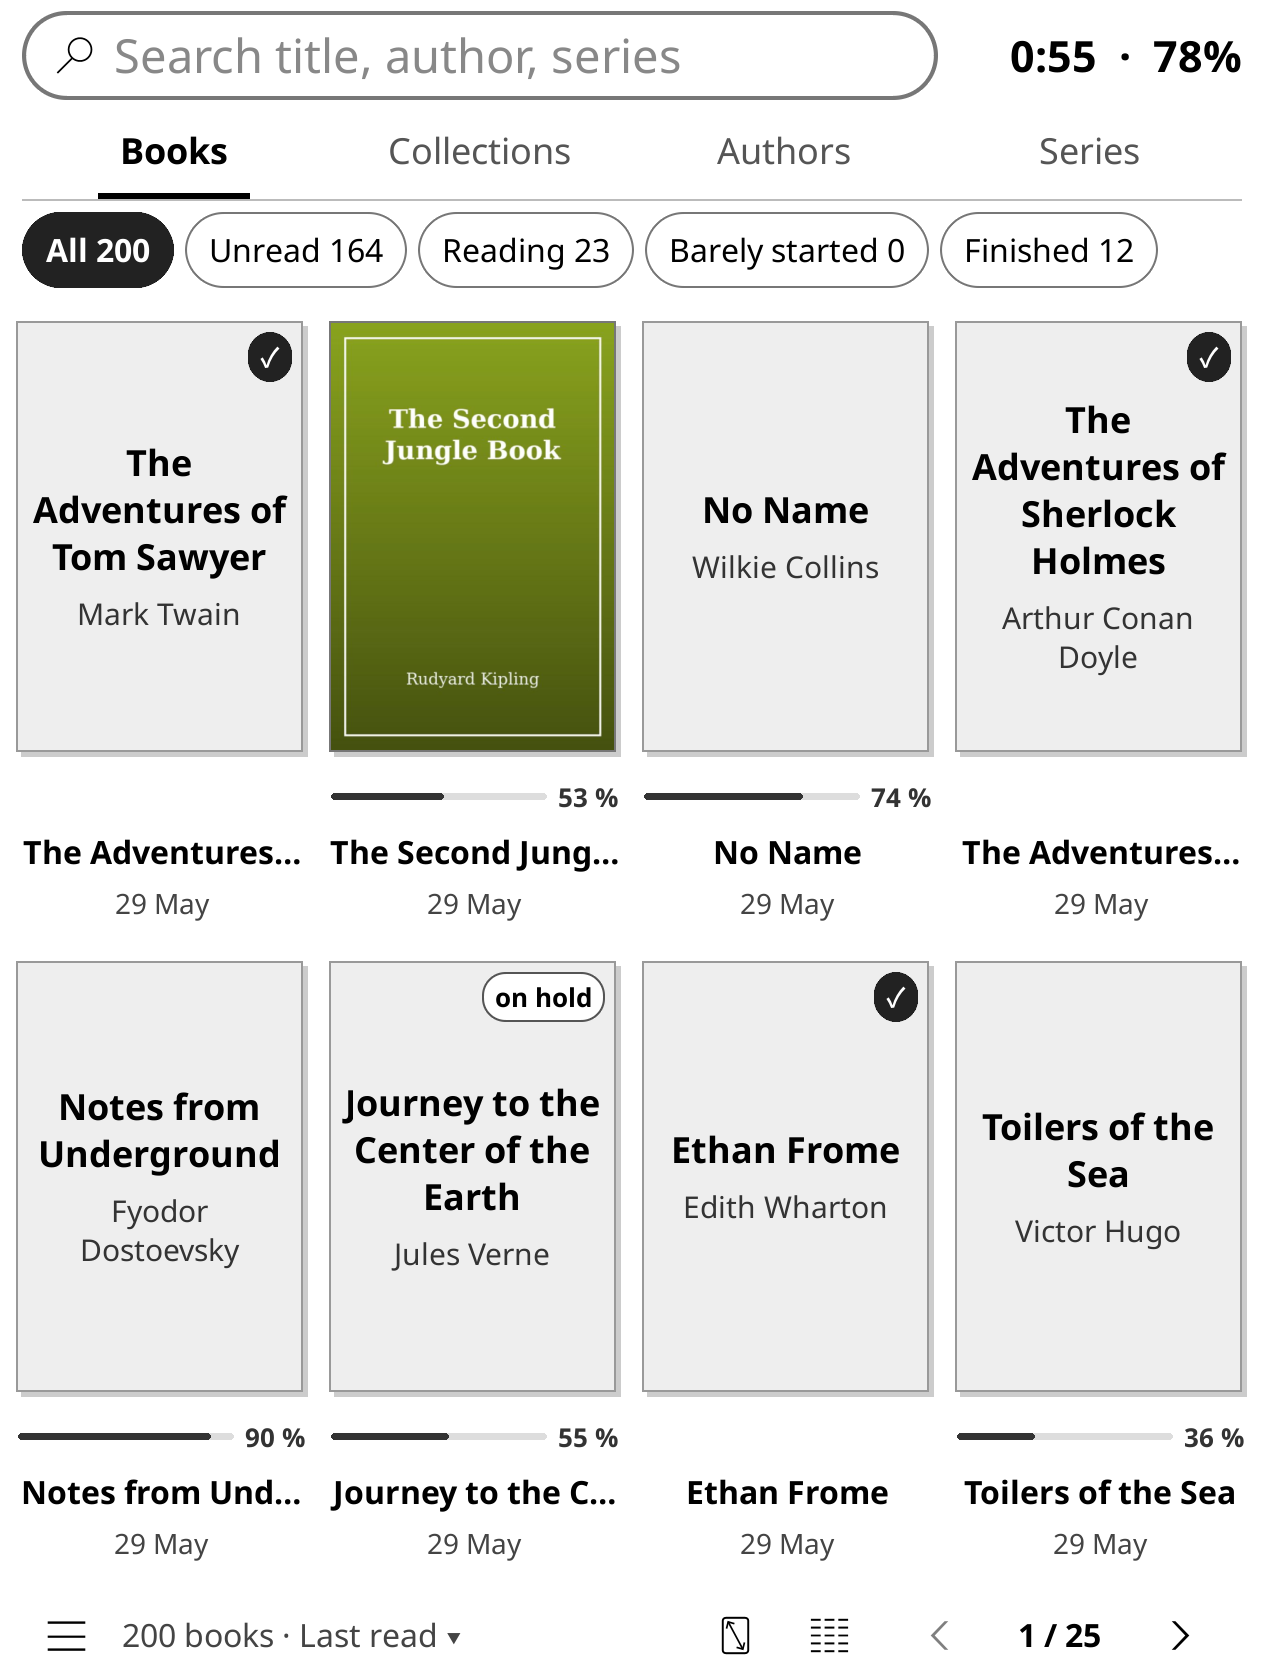
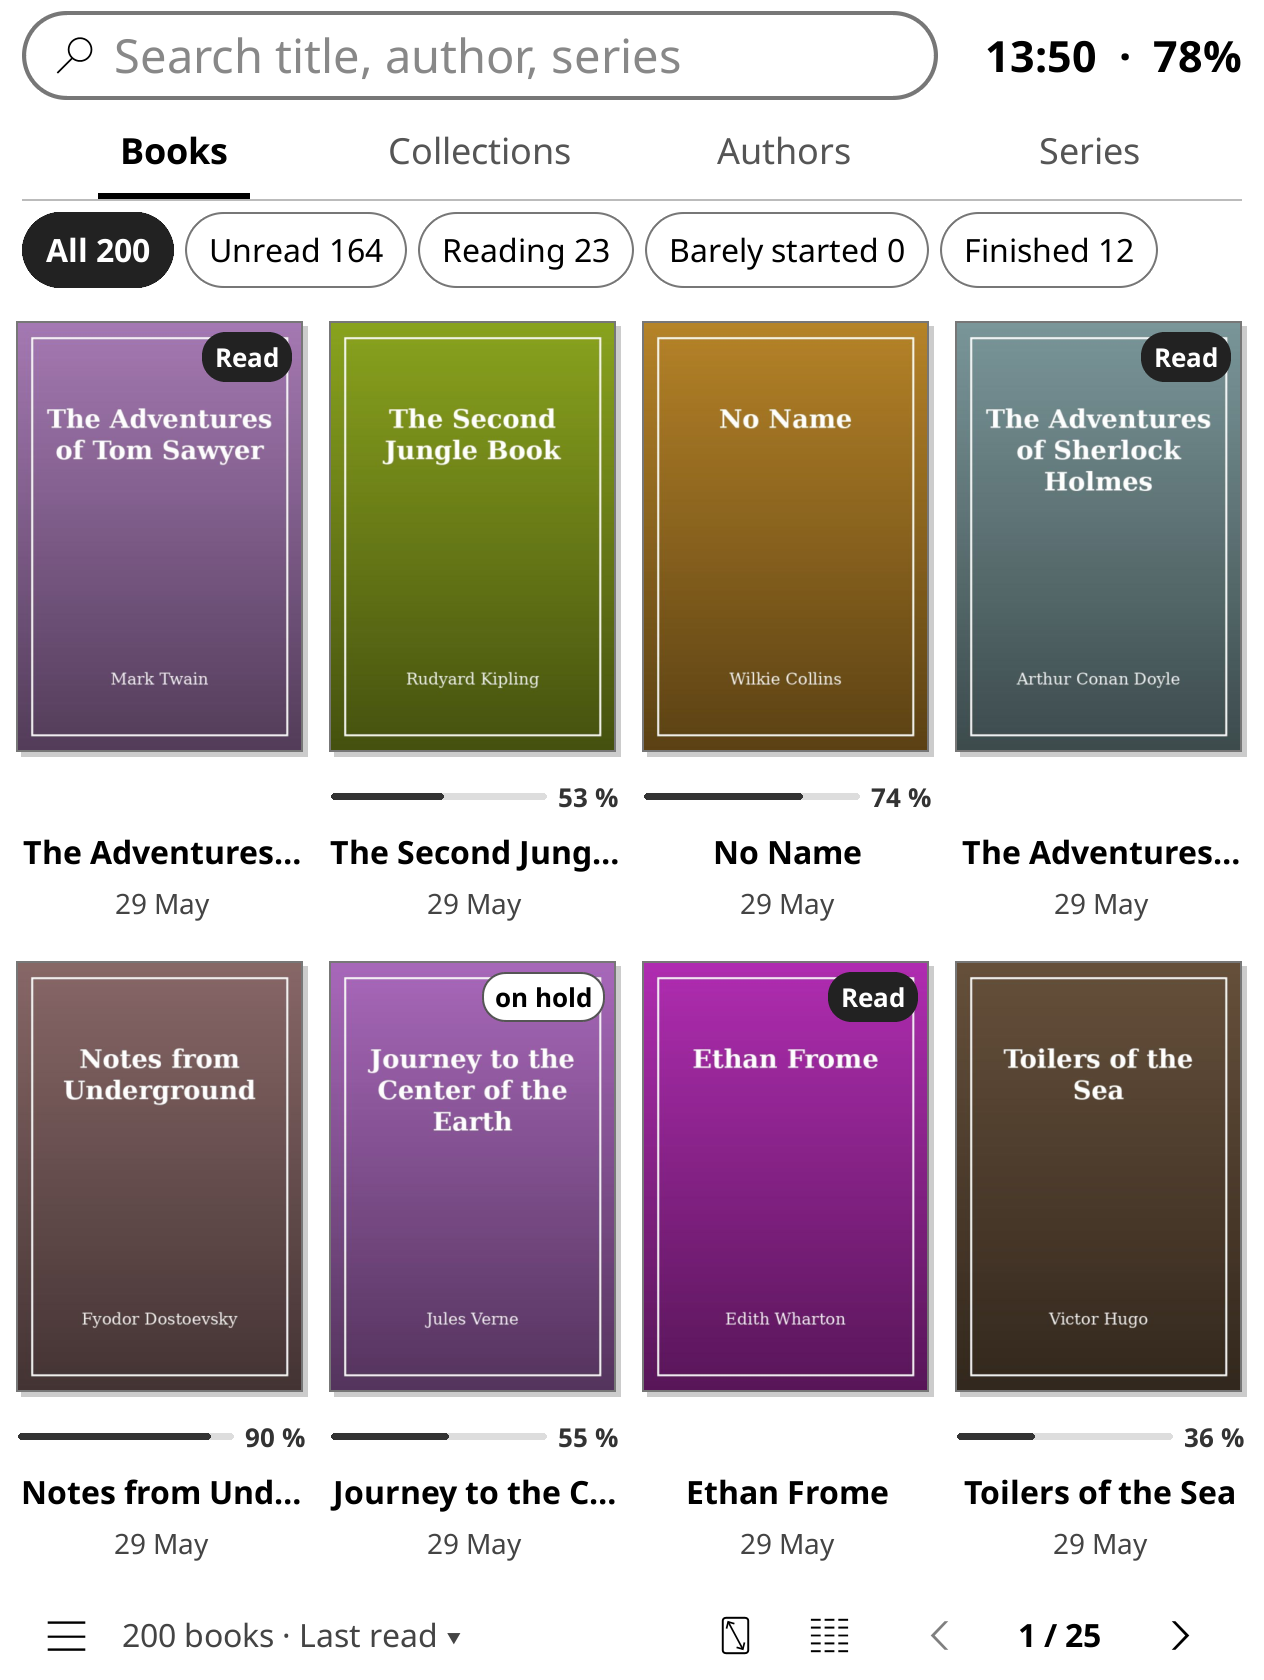
docs: bring the README up to date for v0.7.0
Point the install steps at the published v0.7.0 zip, document badges, time left, Want to Read, Cover only and the Gestures menu, and replace the emulator shots.

diff --git a/README.md b/README.md
@@ -57,7 +57,7 @@ The home-screen layout follows design ideas from [@drkhn1234](https://gitlab.com
 
 | Sort from the footer | The ☰ menu | Controls panel |
 |---|---|---|
-| ![Sort picker opened from the footer label](docs/screenshots/07-sort-picker.png) | ![The ☰ menu opening upward from the bottom left: sort, view, Widgets, Barely started, A–Z strip, Show clock, Show battery and Use KOReader's keyboard](docs/screenshots/v050-menu.png) | ![Controls panel with brightness and warmth sliders, and Light, Night mode, Refresh, Wi-Fi, Rotate, Cover sleep and Exit](docs/screenshots/09-controls-panel.png) |
+| ![Sort picker opened from the footer label](docs/screenshots/07-sort-picker.png) | ![The ☰ menu opening upward from the bottom left: sort, view including Cover only, Widgets, Gestures, A–Z strip, clock, battery, and Close Library](docs/screenshots/v050-menu.png) | ![Controls panel with brightness and warmth sliders, and Light, Night mode, Refresh, Wi-Fi, Rotate, Cover sleep and Exit](docs/screenshots/09-controls-panel.png) |
 
 | Genres | Inside a genre | Go to page |
 |---|---|---|
@@ -65,7 +65,7 @@ The home-screen layout follows design ideas from [@drkhn1234](https://gitlab.com
 
 | Book details | A book with no description | Library in the reader menu |
 |---|---|---|
-| ![Book details for Wuthering Heights, with the cover, Open, a Public domain chip and a description](docs/screenshots/13-details-card.png) | ![Book details for a finished book with no description](docs/screenshots/14-details-card-none.png) | ![KOReader's reader menu with Library and Book details at the top, and the Library tab icon](docs/screenshots/12-reader-menu-library.png) |
+| ![Book details for Wuthering Heights: last read, file size, path, description, and Add to Want to Read](docs/screenshots/13-details-card.png) | ![Pride and Prejudice, finished, with no description. Mark unread sits with More and Close](docs/screenshots/14-details-card-none.png) | ![KOReader's reader menu with Library and Book details at the top, and the Library tab icon](docs/screenshots/12-reader-menu-library.png) |
 
 | Clock and battery off |
 |---|
@@ -75,7 +75,13 @@ The home-screen layout follows design ideas from [@drkhn1234](https://gitlab.com
 |---|---|---|
 | ![Filter chips with their full labels. Finished is cut off at the right edge](docs/screenshots/v050-filters.png) | ![KOReader's file browser, filing-cabinet tab, with Start with set to library](docs/screenshots/v050-start-with.png) | ![The frontlight level, 31, while a drag on the left edge is still down](docs/screenshots/v050-brightness.png) |
 
-The shots on this page show the home screen (widgets and the A–Z strip). They were taken in the KOReader emulator with the dummy library. v0.7.0 adds a Gestures menu on the Library home and forwards the file browser's top swipe and two-finger gestures. v0.6.0 adds Read / New badges, time left, Want to Read, and Cover only. Finished keeps its full label and is cut off at the screen edge when the row is wider than the screen; swipe the chips to bring it across. The level in the brightness shot is drawn by the plugin while the finger is down, and it is cleared when the finger lifts.
+| Cover only | Badges and time left | Gestures |
+|---|---|---|
+| ![Cover only: New badges and a progress row with time left, no title under the cover](docs/screenshots/v070-cover-only.png) | ![List view with New, Read, and time left under the percent](docs/screenshots/v070-badges.png) | ![Gestures menu. Each row is still Same as file browser](docs/screenshots/v070-gestures.png) |
+
+![Choices for swipe down from the top. Same as file browser is selected](docs/screenshots/v070-gesture-choices.png)
+
+The shots on this page were taken in the KOReader emulator (1264×1680) with the dummy library. v0.7.0 adds the Gestures menu: a swipe down from the top opens KOReader's menu, and a two-finger swipe follows the file browser, until you pick another action. v0.6.0 adds Read / New badges, time left, Want to Read, and Cover only. Finished keeps its full label and is cut off at the screen edge when the row is wider than the screen; swipe the chips to bring it across. The level in the brightness shot is drawn by the plugin while the finger is down, and it is cleared when the finger lifts.
 
 ## Features
 
@@ -86,7 +92,7 @@ The shots on this page show the home screen (widgets and the A–Z strip). They 
 - **Sort** by Author, Title, Date added, Last read or Series. Tap the label in the footer to change it, or use the ☰ menu.
 - **Views**: Small, Medium or Large covers, List, Compact, Compact · 2 columns, and Cover only. Cover only keeps the progress row and the badges, and drops the title and author so more covers fit. The view, sort and filter are remembered for each tab and each author, series or collection you open (**Reset default layout** in the ☰ menu forgets them).
 - **Read / New badges.** **New** is only for a book that has never been opened. A book you opened and left on the cover stays unmarked. **Read** means KOReader's doc settings say the book is finished. On hold is unchanged.
-- **Time left** on in-progress books, next to the percent (*42 % · 2h*). It uses that book's own reading speed. If KOReader has no speed for the book, the duration is hidden; nothing is filled in with a default pace.
+- **Time left** on in-progress books. A cover and a compact row put it next to the percent (*42 % · 2h 15m*). A list row puts it under the percent. It uses that book's own reading speed. If KOReader has no speed for the book, the duration is hidden; nothing is filled in with a default pace.
 - **Want to Read.** From the details card or the book's More menu, add or remove the book from a KOReader collection named Want to Read. That collection then shows on the Collections tab like any other.
 - **Dates**: sorted by Last read or Date added, each book shows its date (*3h ago*, *Yesterday*, *12 Oct*). Under Last read, books you've never opened follow in author order.
 - **Widgets**: the area above the books. The default is still Continue reading, a row of the books you are in the middle of. Long-press the title to switch the slot to Favorites, Recently added (newest file first), a series, a collection, or a folder, or to clear it. Two widgets can sit side by side; tap a title to expand one and turn the other into a tab. A widget remembers its page when you open a book and come back. Swipe up on the grid to hide the band, and swipe down to restore it.
@@ -101,16 +107,16 @@ The shots on this page show the home screen (widgets and the A–Z strip). They 
 - **Bigger page buttons**: the footer arrows and the page number are about 10 mm wide to hit (at least 120 px on a 300 dpi Kindle), without making the footer taller.
 - **Cover sleep screen**: one toggle to show the cover of the book you read last on the sleep screen. Turning it off puts back the sleep screen you had.
 - **Controls panel**: swipe down from the top right (the right half of the top of the screen; a slightly diagonal pull is fine) for Brightness and Warmth sliders and buttons for Light, Night mode, Refresh (clears e-ink ghosting), Wi-Fi, Rotate, Cover sleep and Exit (asks first, then quits KOReader). You can also tap the clock or battery beside the search bar, or choose **Controls** in the ☰ menu. Anything your device doesn't have is left out.
-- **Top tap while reading** (☰ → Library → **Top tap opens**): **Library GUI bar** (the default) opens a small menu: Library, Contents, Go to page, Search, Font & size, Light, Bookmark, Book details, Exit, and **More…** for KOReader's full reader menu. **KOReader menu** opens KOReader's own reader menu with that same tap. A swipe down from the top opens KOReader's menu with either choice. The Library screen stays as it is, and the search keyboard stays on **Use KOReader's keyboard**.
+- **Top tap while reading** (☰ → Library → **Top tap opens**): **Library GUI bar** (the default) opens a small menu: Library, Contents, Go to page, Search, Font & size, Readability, Light, Bookmark, Book details, Exit, and **More…** for KOReader's full reader menu. **KOReader menu** opens KOReader's own reader menu with that same tap. A swipe down from the top of a page opens KOReader's menu with either choice. The search keyboard stays on **Use KOReader's keyboard**.
 - **Start with**: KOReader's own Start with setting (file browser menu) includes library. Choose it to open the Library when KOReader starts and to come back to it after closing a book. A vertical drag on the left edge of the Library sets brightness directly, at the same pace as the Controls slider.
 - **Covers without other plugins.** Library GUI extracts covers itself in the background. If Project: Title or Cover browser is enabled, it reuses their cover cache.
-- **Gestures**: the Library home screen has its own gesture menu (☰ on the Library, or ☰ → Library → **Gestures**). Each gesture — swipe down from the top, two-finger swipes, the screen edges, corner taps and holds, and multiswipe, pinch and spread — can stay **Same as file browser** (the default, so nothing changes), do something else (open KOReader's menu, rotate, brightness, warmth, open the current book, the Library menu, Controls, or turn the page), or do **Nothing**. Same as file browser is defined in KOReader's own Gesture manager for the file browser; the menu has a shortcut to it. A one-finger tap or swipe that starts on the A–Z strip still jumps to a letter. Open Library, Search library, Resume last book, Rescan library, and Next / Previous in series can also be assigned under *Taps and gestures*.
+- **Gestures** (☰ on the Library, or ☰ → Library → **Gestures**). On the Library home, a swipe down from the top opens KOReader's menu, and a two-finger swipe does whatever you set for the file browser (often rotate). That is **Same as file browser**, the default for every gesture. You can instead pick **Nothing**, or an action of your own: open KOReader's menu, rotate, brightness, warmth, open the current book, the Library menu, Controls, or turn a page. The list is the top swipe, two-finger swipes (right, left, up, down, diagonal), the screen edges, corner taps and holds, and multiswipe, pinch and spread. **KOReader gesture manager** in that menu opens the file-browser profile, which is what Same as file browser follows. A one-finger tap or swipe that starts on the A–Z strip still jumps to a letter. Open Library, Search library, Resume last book, Rescan library, and Next / Previous in series can also be assigned under *Taps and gestures*.
 
 ## Install
 
 The current release is **[v0.7.0](https://gitlab.com/antonyvo/koreader-library-gui/-/releases/v0.7.0)**. Download **[library.koplugin-v0.7.0.zip](https://gitlab.com/antonyvo/koreader-library-gui/-/releases/v0.7.0/downloads/library.koplugin-v0.7.0.zip)** and unzip it. You get a folder called `library.koplugin`.
 
[2 lines of base64/hex data omitted]
 
 1. Copy the `library.koplugin` folder into `koreader/plugins/` on your device, so you end up with `koreader/plugins/library.koplugin/main.lua`.
    - On a Kindle that is `/mnt/us/koreader/plugins/` (it shows as `koreader/plugins` when the Kindle is plugged in).

diff --git a/CHANGELOG.md b/CHANGELOG.md
@@ -12,7 +12,7 @@ File-browser gestures on the Library home, and a Gestures menu so the Library ca
 Read / New badges, time left, Want to Read, and a Cover only view, on top of v0.5.0.
 
 - **Read / New badges.** New means the book has never been opened (no sidecar and no history entry). A book you opened and left on the cover stays unmarked. Read means KOReader's doc settings say finished (`summary.status == "complete"`). On hold is unchanged.
-- **Time left.** Shown on in-progress books only, as a duration next to the percent (`42 % · 2h`). It is computed from that book's own reading speed. If those numbers are missing, the line is hidden. Nothing is filled in with a default pace.
+- **Time left.** Shown on in-progress books only. A cover and a compact row put the duration next to the percent (`42 % · 2h 15m`). A list row puts it under the percent. It is computed from that book's own reading speed. If those numbers are missing, the line is hidden. Nothing is filled in with a default pace.
 - **Want to Read.** A KOReader collection named Want to Read, created when you add the first book. Long-press opens the details card, which has **Add to Want to Read** / **Remove from Want to Read**. The same action is on the book's More menu. The collection then shows on the Collections tab like any other.
 - **Cover only.** A new entry on the View picker (grid sizes, List, Compact, Compact · 2 columns, Cover only). Covers keep the progress row and the badges, and drop the title and author, so more of them fit. The choice is stored in the same per-shelf memory as the other layouts.
 - **Details card.** Still read-only. Under the title, author and series it now lists pages, last read (`Never` when there is no opened time), file size and path. Progress, including a known time left, stays on the progress line.

diff --git a/tools/emulator/README.md b/tools/emulator/README.md
@@ -23,6 +23,8 @@ tools/emulator/shoot.sh footer
 
 `gestures` drives the file-browser top swipe and a two-finger rotate on the Library home. `gesturemenu` opens the Library's Gestures menu and shows a top swipe that does nothing after that choice is set to Nothing.
 
+`readme` also writes `v050-az-column.png`, `v050-az-short.png`, `v050-footer-book.png`, `v050-footer-empty.png`, `v070-cover-only.png`, `v070-badges.png`, `v070-gestures.png` and `v070-gesture-choices.png`. Those names are scenarios on their own (`azcolumn`, `azshort`, `footerbook`, `footerempty`, `coveronly`, `badges`, `gesturepages`).
+
 `readme` writes the README shots that show the v0.5.0 home screen and gallery. It waits until the covers on screen have been extracted, so the PNGs are not grey placeholders. The same shots can be taken on their own:
 
 | Scenario | PNGs |
